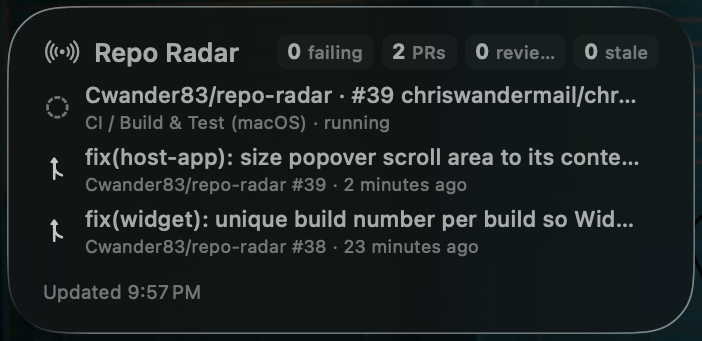
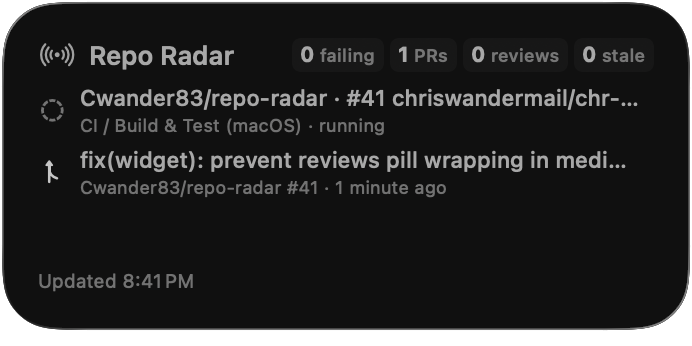
fix(widget): prevent reviews pill wrapping in medium widget (CHR-107) (#41)
* fix(widget): prevent reviews pill wrapping in medium widget (CHR-107)

* docs(readme): retake medium widget screenshot with intact reviews pill (CHR-107)

* fix(widget): remove speculative family override and dead modifiers (CHR-107)

diff --git a/RepoRadarWidget/RepoRadarWidget.swift b/RepoRadarWidget/RepoRadarWidget.swift
@@ -257,18 +257,20 @@ private struct MetricPill: View {
   }
 
   var body: some View {
-    HStack(spacing: 3) {
+    HStack(spacing: 2.5) {
       Text("\(count)")
         .font(.system(size: 10.5, weight: .bold))
         .foregroundStyle(isAlert ? textColor : .primary)
+        .lineLimit(1)
         .widgetAccentable(isAlert)
 
       Text(label)
         .font(.system(size: 9, weight: .medium))
         .foregroundStyle(isAlert ? textColor : .secondary)
+        .lineLimit(1)
         .widgetAccentable(isAlert)
     }
-    .padding(.horizontal, 5)
+    .padding(.horizontal, 4)
     .padding(.vertical, 2)
     .background(
       RoundedRectangle(cornerRadius: 4.5, style: .continuous)
@@ -279,6 +281,7 @@ private struct MetricPill: View {
         .stroke(isAlert ? color.opacity(0.3) : Color.clear, lineWidth: 0.75)
         .widgetAccentable(isAlert)
     )
+    .fixedSize(horizontal: true, vertical: false)
     .accessibilityElement(children: .combine)
     .accessibilityLabel("\(count) \(label)")
   }
@@ -993,7 +996,7 @@ private struct MediumDataView: View {
         Spacer(minLength: 4)
 
         if section == .all {
-          HStack(spacing: 4) {
+          HStack(spacing: 3) {
             MetricPill(
               count: snapshot.failingCI.count,
               label: "failing",
@@ -1023,6 +1026,7 @@ private struct MediumDataView: View {
               isAlert: false
             )
           }
+          .layoutPriority(1)
         } else {
           MetricPill(
             count: filteredCount,
@@ -1031,6 +1035,7 @@ private struct MediumDataView: View {
             textColor: section == .failingCI ? RepoRadarColors.statusFailText : sectionColor(section),
             isAlert: section == .failingCI && filteredCount > 0
           )
+          .layoutPriority(1)
         }
       }
 
